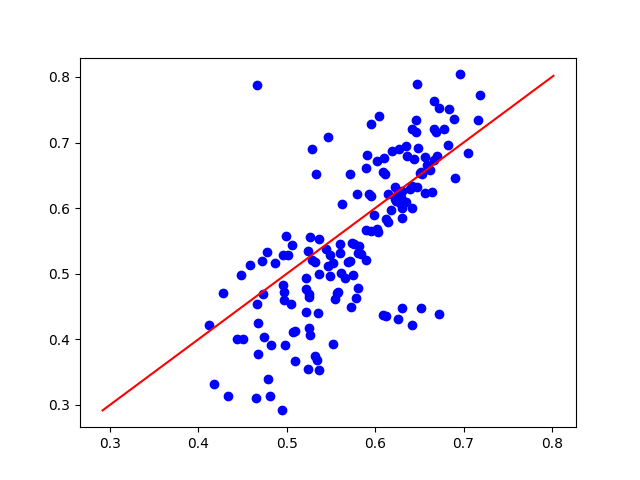
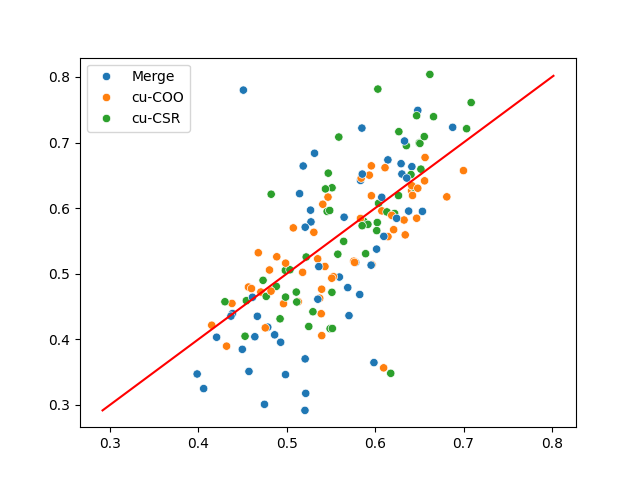
Adding graphs

diff --git a/Performance_predictors/model_runners.py b/Performance_predictors/model_runners.py
@@ -182,12 +182,15 @@ def plot_prediction_dispersion(model:torch.nn.Module,
 
     implementations = validation_dataset.dataframe["implementation"]
     
+    sns.regplot(x=gflops_predictions, y=gflops_expectations, scatter=False, fit_reg=True, color="blue")
     sns.scatterplot(x=gflops_predictions, y=gflops_expectations, hue=implementations)
     plot = sns.lineplot(x=identity_gflops, y=identity_gflops, color="red")
     plot.get_figure().savefig("{}/gflops_scattering_{}.png".format(path, name))
 
     plt.clf()
 
+    sns.regplot(x=energy_efficiency_predictions, y=energy_efficiency_expectations, scatter=False, fit_reg=True, color="blue")
     sns.scatterplot(x=energy_efficiency_predictions, y=energy_efficiency_expectations, hue=implementations)
     plot = sns.lineplot(x=identity_energy_efficiency, y=identity_energy_efficiency, color="red")
     plot.get_figure().savefig("{}/energy_efficiency_scattering_{}.png".format(path, name))
+    plt.clf()
